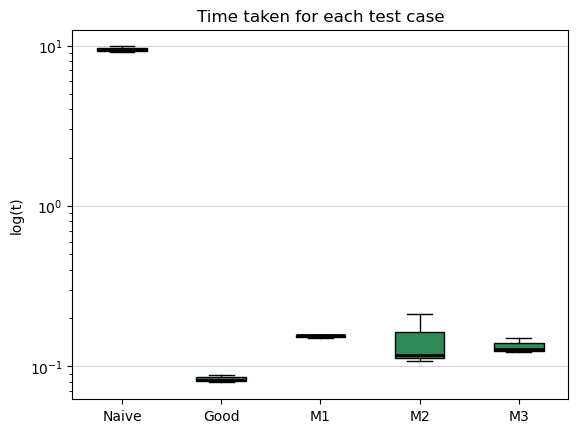
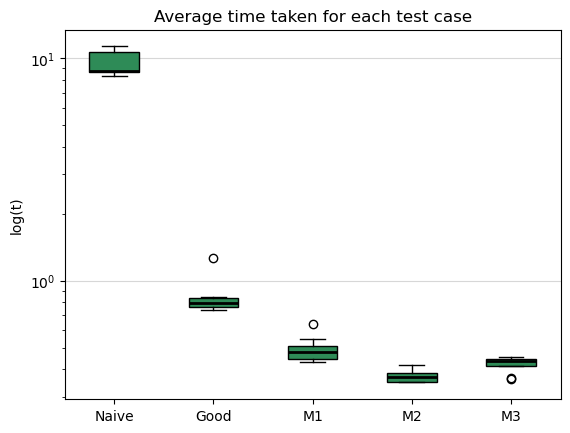
add tuming

diff --git a/run_tests.py b/run_tests.py
@@ -14,6 +14,8 @@ import math
 from statistics import geometric_mean
 import cluster
 import graph_m1
+from sklearn.base import BaseEstimator
+from sklearn.model_selection import ParameterGrid
 #TODO:
 #implement graphing
 #implement hyperparameter optimisation (should be easy now that we have baseline with test_case objects)
@@ -66,7 +68,9 @@ class bbox:
         self.max_x = maxx
         self.max_y = maxy
 
-class test_case:
+
+class test_case(BaseEstimator):
+
     def __init__(self):
         self.times = []
         pass
@@ -76,8 +80,39 @@ class test_case:
             return None
         else:
             return sum(self.times)/len(self.times)
+    @classmethod
+    def get_param_grid(cls):
+        return {}
+    def fit(self, X=None, y=None):
+        runs = []
+        for _ in range(3):
+            self.run(**X)
+            runs.append(self.times[-1])
 
+        self.avg_time_ = sum(runs) / len(runs)
+        return self
 
+    def score(self, X=None, y=None):
+        return -self.avg_time_
+
+    @classmethod
+    def optimise(cls, X):
+        best_time = float('inf')
+        best_case = None
+        
+        for params in ParameterGrid(cls.get_param_grid()):
+            # create object with current parameters
+            obj = cls(**params)
+            
+            obj.times = []
+            obj.fit(X) 
+            mean_time = obj.avg_time_
+            
+            if mean_time < best_time:
+                best_time = mean_time
+                best_case = obj
+        
+        return best_case
     def subp(self,filename:str, tab:str, col:str, queries_file:str,w):
         pass
 
@@ -131,60 +166,94 @@ class test_case:
 
 class good_case(test_case):
     def __init__(self):
-        self.times = []
+        super().__init__()
         self.label = "Good"
     def subp(self,filename:str, tab:str, col:str, queries_file:str,w):
         return subprocess.Popen(["bin/goodtest",filename,tab,col,queries_file,str(w)],pass_fds=(w,))
 
 class naive_case(test_case):
     def __init__(self):
-        self.times = []
+        super().__init__()
         self.label = "Naive"
     def subp(self,filename:str, tab:str, col:str, queries_file:str,w):
         return subprocess.Popen(["bin/naivetest",filename,tab,col,queries_file,str(w)],pass_fds=(w,))
 
 class index_case(test_case):
-    def __init__(self, ind_depth):
-        self.times = []
+    def __init__(self, ind_depth=4):
+        super().__init__()
         self.ind_depth = str(ind_depth)
         self.label = "Hilbert"
+    @classmethod
+    def get_param_grid(cls):
+        return {"ind_depth": [4,6]}
     def subp(self,filename:str, tab:str, col:str, queries_file:str,w):
-        return subprocess.Popen(["bin/indextest",filename,tab,col,queries_file,self.ind_depth,str(w)],pass_fds=(w,))
+        return subprocess.Popen(["bin/indextest",filename,tab,col,queries_file,str(self.ind_depth),str(w)],pass_fds=(w,))
 
 class m1_case(test_case):
-    def __init__(self,ind_depth,pnum):
-        self.times = []
-        self.ind_depth = str(ind_depth)
-        self.pnum = str(pnum)
+    def __init__(self,ind_depth=6,pnum=16):
+        super().__init__()
+        self.ind_depth = ind_depth
+        self.pnum = pnum
         self.label = "M1"
+    @classmethod
+    def get_param_grid(cls):
+        return {"ind_depth": [4,6], "pnum": [16,32,64]}
+
     def subp(self,filename:str, tab:str, col:str, queries_file:str,w):
         print("ready to go")
-        subprocess.run(["bin/m1test",filename,tab,col,queries_file,self.ind_depth,self.pnum,str(w),str(1)],pass_fds=(w,))
+        subprocess.run(["bin/m1test",filename,tab,col,queries_file,str(self.ind_depth),str(self.pnum),str(w),str(1)],pass_fds=(w,))
         print("ran first process")
-        return subprocess.Popen(["bin/m1test",filename,tab,col,queries_file,self.ind_depth,self.pnum,str(w),str(0)],pass_fds=(w,))
+        return subprocess.Popen(["bin/m1test",filename,tab,col,queries_file,str(self.ind_depth),str(self.pnum),str(w),str(0)],pass_fds=(w,))
 
 class m2_case(test_case):
-    def __init__(self,ind_depth,min_leaf):
-        self.times = []
-        self.ind_depth = str(ind_depth)
-        self.min_leaf = str(min_leaf)
+    def __init__(self,ind_depth=6,min_leaf=256):
+        super().__init__()
+        self.ind_depth = ind_depth
+        self.min_leaf = min_leaf
         self.label = "M2"
+    @classmethod
+    def get_param_grid(cls):
+        return {"ind_depth": [4,6], "min_leaf": [128,256]}
     def subp(self,filename:str, tab:str, col:str, queries_file:str,w):
-        return subprocess.Popen(["bin/m2test",filename,tab,col,queries_file,self.ind_depth,self.min_leaf,str(w)],pass_fds=(w,))
+        return subprocess.Popen(["bin/m2test",filename,tab,col,queries_file,str(self.ind_depth),str(self.min_leaf),str(w)],pass_fds=(w,))
 
 class m3_case(test_case):
-    def __init__(self,b_min,b_dep,c_min,c_dep,clus):
-        self.times = []
-        self.b_min = str(b_min)
-        self.b_dep = str(b_dep)
-        self.c_min = str(c_min)
-        self.c_dep = str(c_dep)
-        self.clus = clus
+    def __init__(self,b_min=256,c_min=128,b_dep=4,c_dep=4):
+        super().__init__()
+        self.b_min = b_min
+        self.b_dep = b_dep
+        self.c_min = c_min
+        self.c_dep = b_dep
         self.label = "M3"
+    @classmethod
+    def get_param_grid(cls):
+        return {"b_min": [128,256], "c_min": [128,256],"b_dep":[6],"c_dep":[6]}
+    def subp(self,filename:str, tab:str, col:str, queries_file:str,clus:str,w):
+        return subprocess.Popen(["bin/m3test",filename,tab,col,queries_file,clus,str(self.b_min),str(self.b_dep),str(self.c_min),str(self.c_dep),str(w)],pass_fds=(w,))
 
-    def subp(self,filename:str, tab:str, col:str, queries_file:str,w):
-        return subprocess.Popen(["bin/m3test",filename,tab,col,queries_file,self.clus,self.b_min,self.b_dep,self.c_min,self.c_dep,str(w)],pass_fds=(w,))
+    def run(self,filename:str, tab:str, col:str, queries_file:str,clus:str):
+        p1 = subprocess.run(["bin/reset",filename,tab])
 
+
+        r,w = os.pipe()
+        try:
+            print(clus)
+            process = self.subp(filename,tab,col,queries_file,clus,w)
+            print(clus)
+            print(process)
+            os.close(w)
+            process.wait()
+            with os.fdopen(r, 'r') as secret_stream:
+                data = secret_stream.read()
+                print(f"Captured from FD 3: {data}")
+                print(f"data is as follows: {data}")
+                self.times.append(float(data))
+                #if we redirect this to an output file, it gets printed at the end
+                #do processing or something, save to local "time" variable
+        finally:
+            if 'w' in locals():
+                try: os.close(w)
+                except: pass
 
 #
 #
@@ -306,13 +375,35 @@ def write_out_queries(filename:str, queries: list[query]):
 
 
 if __name__ == "__main__":
-    #we iterate over files that we've supplied
-    t1 = time.time()
+
     for i in range(1,len(sys.argv)):
+
         name = sys.argv[i]
         qname = "data/"+name
         query.generate_query_set(qname+".sqlite",name,"cent",20,32,32,4096,qname+".queries")
         cluster.clustering(qname+".dat")
+        query.generate_clus_query_set(qname+".sqlite",name,"cent",10,qname+".lizard",qname+".cqueries")
+
+
+        X = {"filename": qname + ".sqlite","tab": name,"col": "cent","queries_file": qname + ".cqueries"}
+        X1 = {"filename": qname + ".sqlite","tab": name,"col": "cent","queries_file": qname + ".cqueries", "clus": qname+".lizard"}
+
+        cases = []
+        cases.append(naive_case.optimise(X))
+        cases.append(good_case.optimise(X))
+        cases.append(m1_case.optimise(X))
+        cases.append(m2_case.optimise(X))
+        m3c = m3_case.optimise(X1)
+        for case in cases:
+            for i in range(5):
+                case.run(qname+".sqlite",name,"cent",qname+".cqueries")
+        for i in range(5):
+                m3c.run(qname+".sqlite",name,"cent",qname+".cqueries",qname+".lizard")
+        cases.append(m3c)
+        graph_final_results(cases)
+
+"""
+        t1 = time.time()
         #query.generate_clus_query_set(qname+".sqlite",name,"cent",10,qname+".lizard",qname+".cqueries")
         cases = []
         cases.append(naive_case())
@@ -347,3 +438,4 @@ if __name__ == "__main__":
     print("real time taken: "+str(t2-t1))
 
     #cleanup
+    """

diff --git a/src/m3test.c b/src/m3test.c
@@ -3,6 +3,7 @@
 #include "db.h"
 #include <time.h>
 #include <stdio.h>
+#include<unistd.h>
 #include "grid.h"
 #include "m3.h"
 
@@ -21,7 +22,7 @@ int main(int argc, char *argv[]){
 	rule *r = get_hilbert_curve();
 
 	//current investigation: it seems as if similar index values are being returned, but the right points aren't being put in those values!
-
+	
 	if (argc == 1){
 		sqlite3 *db = setup_db("large.sqlite");
 
@@ -46,7 +47,19 @@ int main(int argc, char *argv[]){
 		sqlite3_close(db);
 	}
 	else{
-		FILE *extra_stream = fdopen(atoi(argv[10]), "w");
+		FILE *test = fopen("help", "w");
+			fprintf(test,"%d\n", argc);
+
+		for (int i=1;i<=9;i++){
+			fprintf(test,argv[i]);
+			fprintf(test,"\n");
+		}
+		printf("going!\n");
+		fclose(test);
+		FILE *extra_stream;
+		if (argc == 11){
+		extra_stream = fdopen(atoi(argv[10]), "w");
+		}
 
 		sqlite3 *db = setup_db(argv[1]);
 		sqlite3_exec(db, "SELECT UpdateLayerStatistics()",NULL,NULL,NULL);
@@ -54,13 +67,13 @@ int main(int argc, char *argv[]){
 		//gets queries
 		int qnum = 0;
 		query **q = read_queries_from_file(argv[4],&qnum);
-		int base_depth = atoi(argv[6]);
+		int base_depth = atoi(argv[7]);
 		if (base_depth == 0){printf("wrong!\n");}
-		int base_minp = atoi(argv[7]);
+		int base_minp = atoi(argv[6]);
 		if (base_minp == 0){printf("wrong!\n");}
-		int c_depth = atoi(argv[8]);
+		int c_depth = atoi(argv[9]);
 		if (c_depth == 0){printf("wrong!\n");}
-		int c_minp = atoi(argv[9]);
+		int c_minp = atoi(argv[8]);
 		if (c_minp == 0){printf("wrong!\n");}
 
 		point **p = sample_random_points_from_table(db,argv[2],argv[3],4096);
@@ -83,9 +96,11 @@ int main(int argc, char *argv[]){
 		}
     		clock_gettime(CLOCK_MONOTONIC, &end);
     		double elapsed = (end.tv_sec - start.tv_sec) +(end.tv_nsec - start.tv_nsec) / 1e9;
+		if (argc == 11){
 		fprintf(extra_stream,"%.9f\n", elapsed);
 		fflush(extra_stream);
 		fclose(extra_stream);
+		}
 		sqlite3_close(db);
 	}
 	return 0;

diff --git a/src/query_gen_clus.c b/src/query_gen_clus.c
@@ -24,7 +24,8 @@ int main(int argc, char *argv[]){
 	float rad;
 	for (int i=0;i<bnum;i++){
 		bbox_get_lengths(clus[i],&xlen,&ylen);
-		
+		float size = sqrt(xlen*ylen/4);
+
 		for (int j=0;j<no;j++){
 			f = ((float)rand())/RAND_MAX;
 			float q_x = (clus[i]->min_x + (0.1*xlen)+(0.8*f*xlen));
@@ -33,7 +34,7 @@ int main(int argc, char *argv[]){
 			f = ((float)rand())/RAND_MAX;
 			float q;
 			if (q_x < q_y){q=q_y;}else{q=q_x;}
-			rad = (0.5+f)*(q/2048);
+			rad = (0.1+f)*size;
 			fprintf(fil,"%.0f\n%.0f\n%.0f\n", q_x,q_y,rad);
 			}
 

diff --git a/src/m2.c b/src/m2.c
@@ -3,6 +3,7 @@
 bbox **read_bboxes_from_file(char *filename, int *bnum){
 	//reads the bboxes from a file
 	//we structure the line with each float on each side. it's the responsibility of the file writer to make sure that it follows this format
+	printf("cluster file is %s\n", filename);
 	FILE *f = fopen(filename, "r");
 	if (f == NULL){
 		printf("wow! error opening the file!\n");

diff --git a/src/test_helper.c b/src/test_helper.c
@@ -59,7 +59,7 @@ void remove_index_col(sqlite3 *db, char *tab, char *col){
 query **read_queries_from_file(char *filename, int *qnum){
 	FILE *f = fopen(filename, "r");
 	if (f == NULL){
-		printf("wow! error opening the file!\n");
+		printf("wow2! error opening the file!\n");
 		return NULL;
 	}
 	query **q = malloc(256*sizeof(query *));
